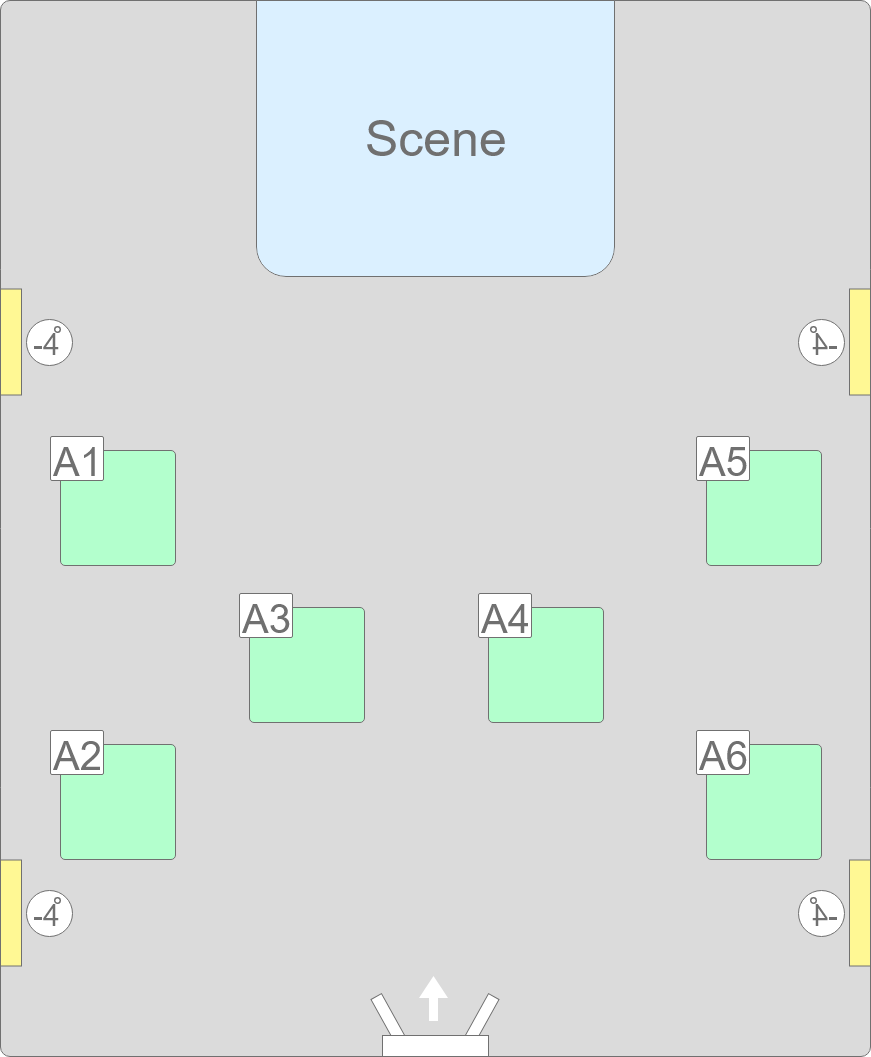
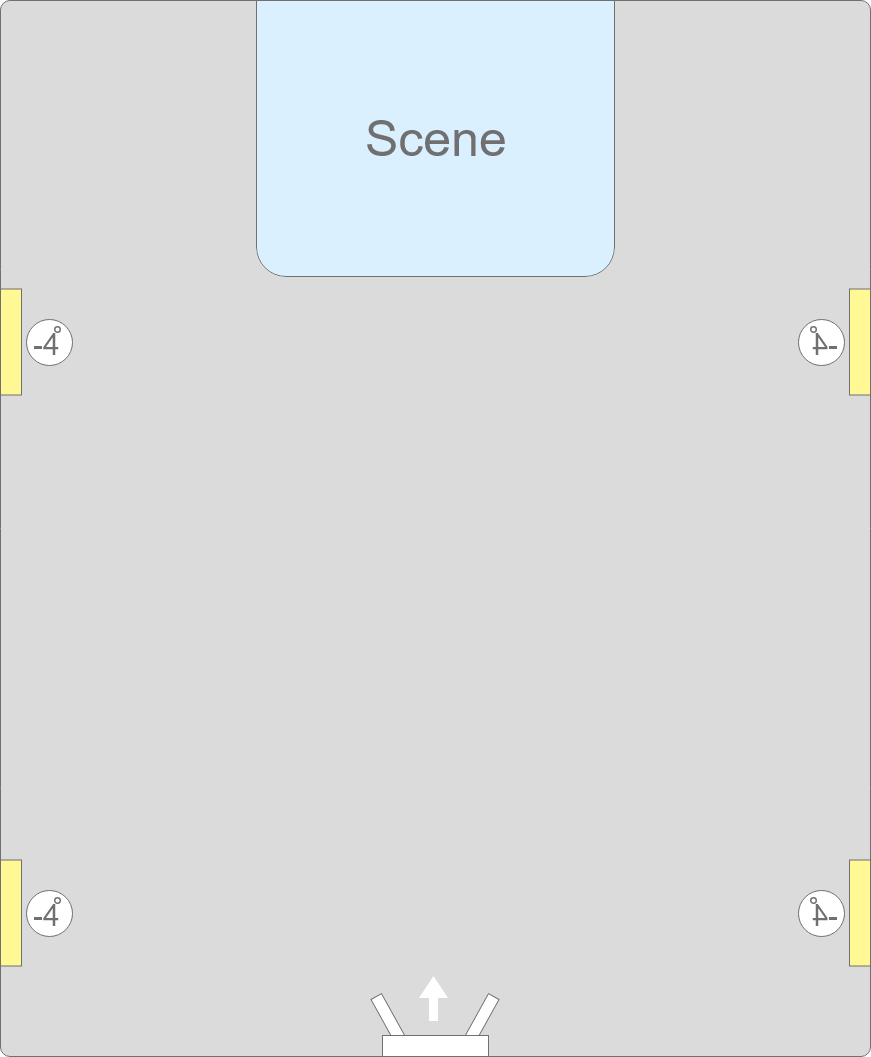
f

diff --git a/javascript/javascriptActivities.js b/javascript/javascriptActivities.js
@@ -4,9 +4,10 @@ const picture = ["præsentation","installationras","installationrass","præsenta
 
 let column = 1;
 for (let i = 0; i < activities.length; i++) {
-    document.getElementById("column"+column).innerHTML += '<input type="checkbox" onclick="update('+i+')" id="checkbox0"><label>'+activities[i]+'</label><br>';
-    document.getElementById("innermap").innerHTML += '<div id="highlight'+i+'" style="grid-area: A'+i+';"></div>';
-    document.getElementById("highlight"+i).style.display = "none";
+    document.getElementById("column"+column).innerHTML += '<input type="checkbox" onclick="update('+i+')" id="checkbox'+i+'"><label>'+activities[i]+'</label><br>';
+    document.getElementById("innermap").innerHTML += '<a id="highlight'+i+'" onclick="update('+i+')" class="stand" style="grid-area: A'+i+';"><p>A'+i+'</p></a>';
+    document.getElementById("highlight"+i).style.boxShadow = "none";
+
         if(column == 1){
             column = 2;
         }else {
@@ -14,13 +15,18 @@ for (let i = 0; i < activities.length; i++) {
         }
 }
 function update (id){
-    if(document.getElementById("highlight"+id).style.display == "none"){
-        document.getElementById("highlight"+id).style.display = "block";
+    if(document.getElementById("highlight"+id).style.boxShadow == "none"){
+        document.getElementById("highlight"+id).style.boxShadow = "0px 0px 10px #30b3eb";
+        document.getElementById("checkbox"+id).checked = true;
+        document.getElementById("card"+id).style.boxShadow = "0px 0px 40px #008cff"
     }else {
-        document.getElementById("highlight"+id).style.display = "none";
+        document.getElementById("highlight"+id).style.boxShadow = "none";
+        document.getElementById("checkbox"+id).checked = false;
+        document.getElementById("card"+id).style.boxShadow = "none";
     }
 }
 
 for (let i = 0; i < activities.length; i++) {
-    document.getElementById("activitycardlist").innerHTML += '<div id="card"><div><img src="pictures/activities/'+picture[i]+'.jpg" alt="billed af '+activities[i]+'"></div><div id="text"><h2>'+activities[i]+'</h2><p>'+beskrivelser[i]+'<p><div></div>';
+    document.getElementById("activitycardlist").innerHTML += '<div id="card'+i+'" class="card"><div><img src="pictures/activities/'+picture[i]+'.jpg" alt="billed af '+activities[i]+'"></div><div id="text"><h2>'+activities[i]+'</h2><p>'+beskrivelser[i]+'<p><div></div>';
+    document.getElementById("card"+i).style.boxShadow = "none";
 }

diff --git a/css/stylesactivities.css b/css/stylesactivities.css
@@ -47,7 +47,7 @@ header .fakeheader #headerlink3{
     display: block;
     width: 550px;
     height: 550px;
-
+    margin: 40px auto;
     background: url("../pictures/activities/map.png") 0 0 no-repeat;
     background-position: center; 
     background-size: contain;
@@ -60,13 +60,13 @@ header .fakeheader #headerlink3{
     margin-left: 74px;
     margin-right: 60px;
     grid-template-columns: 65px 33px 65px 60px 65px 48px 65px;
-    grid-template-rows: 67px 14px 67px 5px 67px;
+    grid-template-rows: 67px 5px 67px 5px 67px;
     grid-template-areas: 
-    "A0 . . . . . A1"
+    "A0 . A1 . A2 . A3"
     ". . . . . . ."
-    ". . A2 . A3 . ."
     ". . . . . . ."
-    "A4 . . . . . A5";
+    ". . . . . . ."
+    "A4 . A6 . A7 . A5";
 }
 #innermap div{
     display: none;
@@ -75,6 +75,30 @@ header .fakeheader #headerlink3{
     background-color: #42b5e68a;
     box-shadow: 0px 0px 10px #30b3eb;
 }
+.stand {
+    display: block;
+    width: 61px;
+    height: 64px;
+    background-color: #B3FFCD;
+    border-radius: 4px;
+    border: 1px solid black;
+    cursor: pointer;
+    transition: 0.3s;
+}
+.stand p{
+    font-style: normal;
+    color: gray;
+    text-align: center;
+    background-color: white;
+    border-radius: 1px;
+    border: 1px solid black;
+    display: block;
+    width: 50%;
+    margin: 0px;
+    margin-top: -5px;
+    margin-left: -5px;
+}
+
 @media(max-width: 1100px){
     .container{
         grid-template-columns: auto;
@@ -94,7 +118,7 @@ header .fakeheader #headerlink3{
     display: flex;
     flex-wrap: wrap;
 }
-#card{
+.card{
     border-style: none;
     border-radius: 10px;
     display: grid;
@@ -110,28 +134,28 @@ header .fakeheader #headerlink3{
     transition: 0.5s;
 
 }
-#card div{
+.card div{
     grid-area: pic;
     overflow: hidden;
 }
 
-#card img{
+.card img{
     width: 100%;
     border-radius: 5px 5px 0px 0px;
     margin: 0px auto;
     transition: 0.5s;
 }
-#card #text h2{
+.card #text h2{
     margin: 5px 0px;
     color: #ffe678;
 }
-#card #text p{
+.card #text p{
     color: #ffffff;
     margin-left: 5px;
     font-size: 18px;
 }
 
-#card #text{
+.card #text{
     grid-area: text;
     border-style: none;
     border-radius: 0px 0px 5px 5px;
@@ -146,9 +170,9 @@ header .fakeheader #headerlink3{
     margin-top: -20px;
 }
 
-#card:hover #text, #card:hover{
+.card:hover #text, #card:hover{
     background-color: #30b3eb;
 }
-#card:hover img{
+.card:hover img{
     transform: scale(1.2);
 }

diff --git a/activities.html b/activities.html
@@ -38,13 +38,14 @@
                 </div>
             </div>
             <div class="map">
-                <div id="innermap">
-                </div>
+                <div id="innermap"></div>
             </div>
+
         </div>
         <br>
         <hr class="splitline"><br>
         <h1 style="text-align: center;">ELKON aktiviteter</h1>
+        <p style="text-align: center;">Disse aktiviteter bliver holdt på dette års elkon</p>
         <div id="activitycardlist">
         </div>
     </div>
